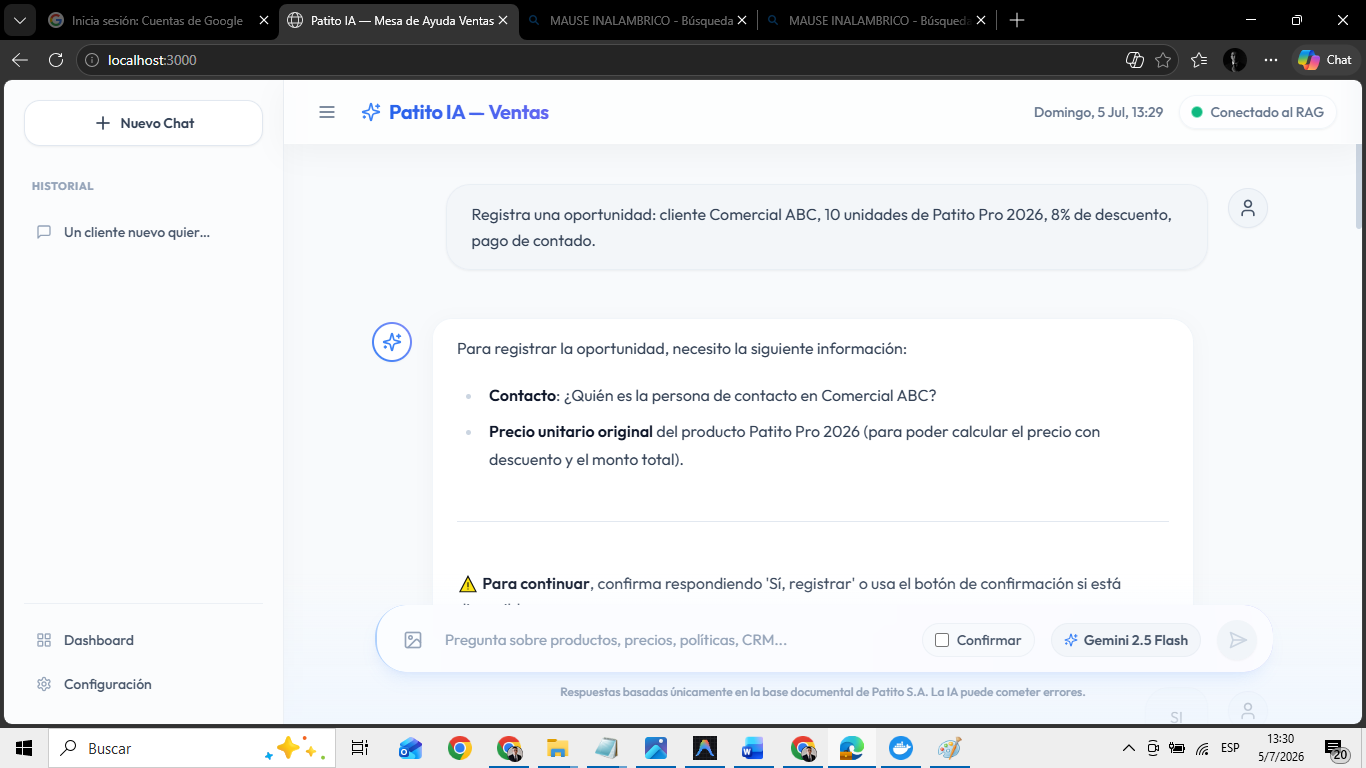
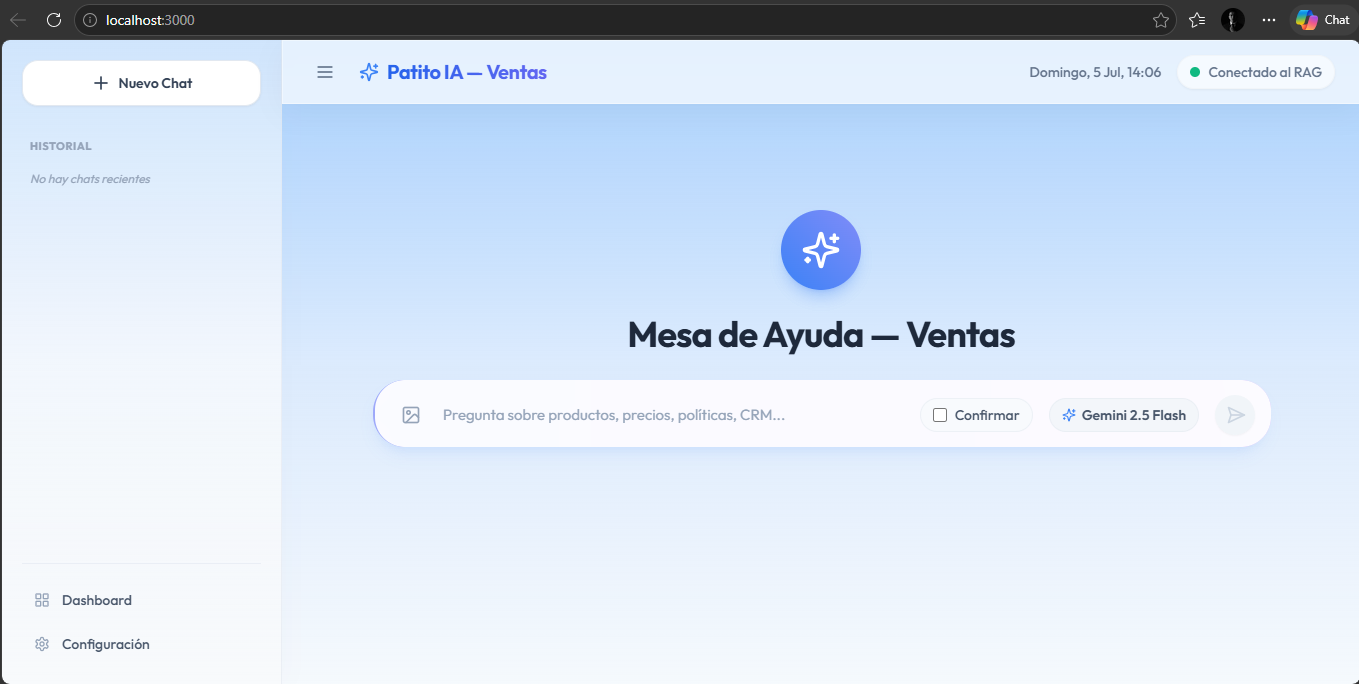
feat: implement chat history sidebar with conversation management and persistent state integration

diff --git a/frontend/app/page.tsx b/frontend/app/page.tsx
@@ -77,7 +77,7 @@ export default function Home() {
         <Sidebar onNewChat={handleNewChat} onLoadChat={loadConversation} history={history} setHistory={setHistory} />
       </div>
       
-      <main className="flex flex-1 flex-col relative">
+      <main className="flex flex-1 flex-col relative bg-gradient-to-b from-blue-300/80 via-blue-200/50 to-blue-50/30">
         {/* Header (Glass) */}
         <header className="absolute top-0 left-0 right-0 z-10 flex h-16 items-center justify-between px-6 glass-panel border-x-0 border-t-0 bg-white/50">
           <div className="flex items-center gap-4">
@@ -127,9 +127,10 @@ export default function Home() {
                 <h2 className="text-4xl font-bold tracking-tight text-slate-800">
                   Mesa de Ayuda — Ventas
                 </h2>
-                <p className="max-w-xl text-lg text-slate-500 leading-relaxed">
-                  Soy tu asistente inteligente del Departamento de Ventas de Patito S.A. Pregúntame sobre productos, precios, políticas comerciales, proceso de venta o adjunta una imagen de un producto.
-                </p>
+                {/* Input Area (Centrado en el medio cuando está vacío) */}
+                <div className="w-full max-w-4xl mt-8">
+                  <ChatInput onSend={(msg, img, conf) => sendMessage(msg, img, conf)} isLoading={isLoading} />
+                </div>
               </div>
             ) : (
               messages.map((msg) => (
@@ -154,19 +155,18 @@ export default function Home() {
           </div>
         </div>
 
-        {/* Input Area (Floating with blue gradient backdrop like Gemini) */}
-        <div className="absolute bottom-0 left-0 right-0">
-          {/* Gradient fade from blue to transparent going upward */}
-          <div className="absolute inset-0 bg-gradient-to-t from-blue-50/80 via-blue-50/40 to-transparent pointer-events-none" />
-          <div className="relative px-4 pt-8 pb-6">
-            <div className="mx-auto max-w-4xl relative">
-              <ChatInput onSend={(msg, img, conf) => sendMessage(msg, img, conf)} isLoading={isLoading} />
-              <div className="text-center text-xs text-slate-400 mt-3 font-medium">
-                Respuestas basadas únicamente en la base documental de Patito S.A. La IA puede cometer errores.
+        {/* Input Area (Fijo en la parte inferior cuando ya hay mensajes) */}
+        {messages.length > 0 && (
+          <div className="absolute bottom-0 left-0 right-0">
+            {/* Gradient fade from blue to transparent going upward */}
+            <div className="absolute inset-0 bg-gradient-to-t from-blue-50/80 via-blue-50/40 to-transparent pointer-events-none" />
+            <div className="relative px-4 pt-8 pb-6">
+              <div className="mx-auto max-w-4xl relative">
+                <ChatInput onSend={(msg, img, conf) => sendMessage(msg, img, conf)} isLoading={isLoading} />
               </div>
             </div>
           </div>
-        </div>
+        )}
       </main>
     </div>
   );

diff --git a/frontend/components/chat/Sidebar.tsx b/frontend/components/chat/Sidebar.tsx
@@ -26,7 +26,7 @@ export function Sidebar({
   };
 
   return (
-    <div className="flex h-full w-[280px] flex-col border-r border-slate-200/60 bg-white/40 backdrop-blur-xl p-5 shadow-[4px_0_24px_rgb(0,0,0,0.02)] shrink-0">
+    <div className="flex h-full w-[280px] flex-col border-r border-slate-200/60 bg-gradient-to-b from-blue-300/40 via-blue-100/20 to-transparent backdrop-blur-xl p-5 shadow-[4px_0_24px_rgb(0,0,0,0.02)] shrink-0">
       <button 
         onClick={onNewChat}
         className="flex w-full items-center justify-center gap-2 rounded-2xl bg-white border border-slate-200 p-3 text-sm font-semibold text-slate-700 shadow-sm transition-all hover:border-blue-200 hover:bg-blue-50/50 hover:text-blue-600 mb-8 hover:shadow-md"